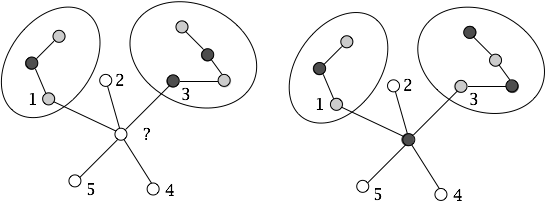
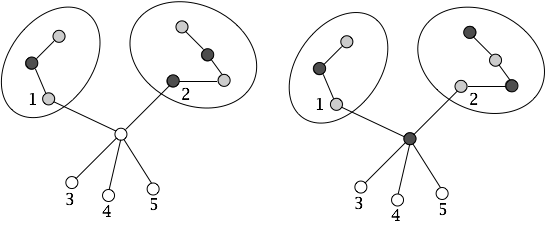
coloring

diff --git a/GRAPHS2.tex b/GRAPHS2.tex
@@ -34,7 +34,7 @@ A {\it vertex-coloring} of a graph $\g$ is an assignment of labels (the ``{\em c
 
 \smallskip
 
-``$\g$ has chromatic number $c$'' \ \ \ and \ \ \  ``$\g$ is {\it $c$-colorable}''
+``$\g$ has chromatic number $c$'' \  and \  ``$\g$ is {\it $c$-colorable}''
 
 \smallskip
 
@@ -52,7 +52,7 @@ The notion of graph coloring can be used to computational advantage in a broad v
 
 \medskip
 
-One extremely important, and illustrative, use of graph coloring is to model independence among agents in {\it distributed} computing: The vertices of a computation-graph $\g$ represent {\it agents}, such as, e.g., processing elements in a multicomputer; and $g$'s edges represent {\it communication links} that enable each vertex $u$ to check its neighbors' states before taking any action and to inform its neighbors of state-changes occasioned by an action by $u$.  
+One extremely important, and illustrative, use of graph coloring is to model independence among agents in {\it distributed} computing: The vertices of a computation-graph $\g$ represent {\it agents}, such as, e.g., processing elements in a multicomputer; and $\g$'s edges represent {\it communication links} that enable each vertex $u$ to check its neighbors' states before taking any action and to inform its neighbors of state-changes occasioned by an action by $u$.  
 
 \smallskip
 
@@ -103,7 +103,7 @@ Say first that $\g$ is a leveled graph.  Then labeling each vertex of $\g$ with 
 
 \medskip
 
-{\Arny Looking behind the CE's comments, I have rewritten the next paragraph.  Reactions?}
+%{\Arny Looking behind the CE's comments, I have rewritten the next paragraph.  Reactions?}
 
 Say next that $\g$ is $2$-colorable.  Pick any vertex $v_0$ of $\g$ and assign it to be the unique vertex on level $1$.  Next, assign all neighbors of $v_0$ to level $2$.  Continuing iteratively, say that the largest level-number that we have employed---i.e., assigned vertices to---is $\ell$.  Then we now assign to level $\ell +1$ all neighbors of level-$\ell$ vertices that have not yet been assigned to a level.  Because $\g$ is $2$-colorable, this process colors every vertex of $\g$.  Moreover, for each vertex $v$ of $\g$:
 \begin{itemize}
@@ -783,7 +783,8 @@ Vertex $v$ has degree $\leq 4$.
 By definition, no more than four colors are needed to color $v$'s neighbors in this case.
 \end{description}
 
-In all remaining cases, vertex $v$ has precisely five neighbors---or else, we would have invoked Case 1 to color $\g$ with five colors.  We shall visualize vertex $v$ as in 
+In all remaining cases, vertex $v$ has precisely five neighbors---or else, we would have invoked Case 1 to color $\g$ with five colors.  
+%We shall visualize vertex $v$ as in 
 
 
 \begin{description}
@@ -792,7 +793,8 @@ For some $5$-coloring of $\g$, at least two neighbors of $v$ get the same color.
 
 \smallskip
 
-Because $v$ has exactly five neighbors, in this case, only four colors are used to color these neighbors.
+Because $v$ has exactly five neighbors, in this case, only four colors are used to color these neighbors
+and then, $v$ can be colored accordingly to get a valid 5-coloring.
 \end{description}
 In all remaining cases, the five neighbors of $v$ receive distinct colors.  The situation therefore appears as in Fig.~\ref{fig:5colorsInit}, which depicts vertex $v$ and its neighbors.
 \begin{figure}[hbt]
@@ -808,13 +810,15 @@ In this figure and its companions that illustrate the current proof, we use inte
 
 \begin{description}
 \item[{\sf Case 3}.]
-For some $5$-coloring of $\g$, some two neighbors of $v$---call them $v_1$ and $v_2$---reside in distinct components of $\g$ once $v$ and its incident edges are removed from $\g$.
+For some $5$-coloring of $\g$, some two neighbors of $v$---assume there are $v_1$ and $v_2$---reside in distinct components of $\g$ once $v$ and its incident edges are removed from $\g$.
 
 \smallskip
 
-As before, let $\g'$ be the (in this case, disconnected) graph that results when $v$ and its incident edges are removed from $\g$.  For $i = 1,2$, let $\g_i$ be the component of $\g'$ that contains vertex $v_i$.
+As before, let $\g'$ be the (in this case, disconnected) graph that results when $v$ and its incident edges are removed from $\g$.  
+For $i=1,2$, let $\g_i$ be the components of $\g'$ that contains vertex $v_i$.
 
-Say that, under the $5$-coloring of $\g$ that we are focusing on, $v_1$ is colored {\it black} and $v_2$ is colored {\it grey}.  Figure~\ref{fig:5colorsCase3} illustrates the scenario.
+Say that, under the $5$-coloring of $\g$ that we are focusing on, $v_1$ is colored {\it grey} and $v_2$ is colored {\it black}. 
+Figure~\ref{fig:5colorsCase3} illustrates the scenario.
 \begin{figure}[hbt]
 \begin{center}
    \includegraphics[scale=0.4]{FiguresGraph/5colorsCase1}
@@ -823,11 +827,12 @@ Say that, under the $5$-coloring of $\g$ that we are focusing on, $v_1$ is color
 \end{center}
 \end{figure}
 
-We recolor the vertices of $\g_1$ so that vertex $v_1$ is now colored {\it grey}.  (One need only switch the colors {\it black} and {\it grey} in the existing coloring of $\g_1$ to achieve this.)  It is always possible to do this in a way that does not affect the valid coloring of $\g_2$ because $\g_1$ and $\g_2$ are mutually disjoint.
+We recolor the vertices of $\g_2$ so that vertex $v_2$ is now colored {\it grey}.  (One needs only switch the colors {\it black} and {\it grey} in the existing coloring of $\g_2$ to achieve this.)  It is always possible to do this in a way that does not affect the valid coloring of $\g_1$ because $\g_1$ and $\g_2$ are mutually disjoint.
 
 \smallskip
 
-Once we have thus recolored $\g_1$, we have a $5$-coloring of $\g$ for which Case 2 holds.  (In fact, we can color vertex $v$ {\em red} when we reattach it to $\g'$.)
+Once we have thus recolored $\g_2$, we obtain a $5$-coloring of $\g$ for which Case 2 holds.  (In fact, we can color vertex $v$ in the missing
+of the 5 colors when we reattach it to $\g'$.)
 \end{description}
 
 %\begin{itemize}
@@ -868,8 +873,7 @@ Importantly, these vertices have received distinct colors ($c_1$ and $c_3 \neq c
 
 \smallskip
 
-Now take $\g$ and focus only on the vertices that are colored $c_1$ or $c_3$ (as are $v_1$ and $v_3$, respectively) and on the vertices that are colored $c_2$ or $c_4$ (as are $v_2$ and $v_4$, respectively).  One sees from Fig.~\ref{fig:5colorsCase2} that:
-{\Denis check here}
+Now take $\g$ and focus only on the vertices that are colored $c_1$ or $c_3$ (as are $v_1$ and $v_3$, respectively) and on the vertices that are colored $c_2$ or $c_4$ (as are $v_2$ and $v_4$, respectively).  One sees from Fig.~\ref{fig:5colorsCase4} that:
 \begin{itemize}
 \item
 $\g$ can---{\em but need not}---contain a path whose vertices alternate  colors $c_1$ and $c_3$. Call this a ``$c_1$-$c_3$ path'' between vertices $v_1$ and $v_3$.
@@ -880,8 +884,7 @@ $\g$ {\em cannot} contain both of the paths just described, i.e., a $c_1$-$c_3$ 
 
 \smallskip
 
-These two paths, if they existed, would cross one another---which is forbidden because $\g$ is a {\em planar} graph,  See Fig.~\ref{fig:5colorsCase2}.
-
+These two paths, if they existed, would cross one another---which is forbidden because $\g$ is a {\em planar} graph,  See Fig.~\ref{fig:5colorsCase4}.
 
 \end{itemize}
 It follows that {\em either} $\g$ does not contain a $c_1$-$c_3$ path between $v_1$ and $v_3$ {\em or} $\g$ does not contain a $c_2$-$c_4$ path between $v_2$ and $v_4$.  Say, with no loss of generality, that the former path does not exist.  Then we can switch colors $c_1$ and $c_3$ beginning with vertex $v_1$ and obtain a coloring of $\g$ in which $v_1$ and $v_3$ both receive the color $c_3$.  We can then proceed as in Case 3 to get a $5$-coloring of $\g$.
